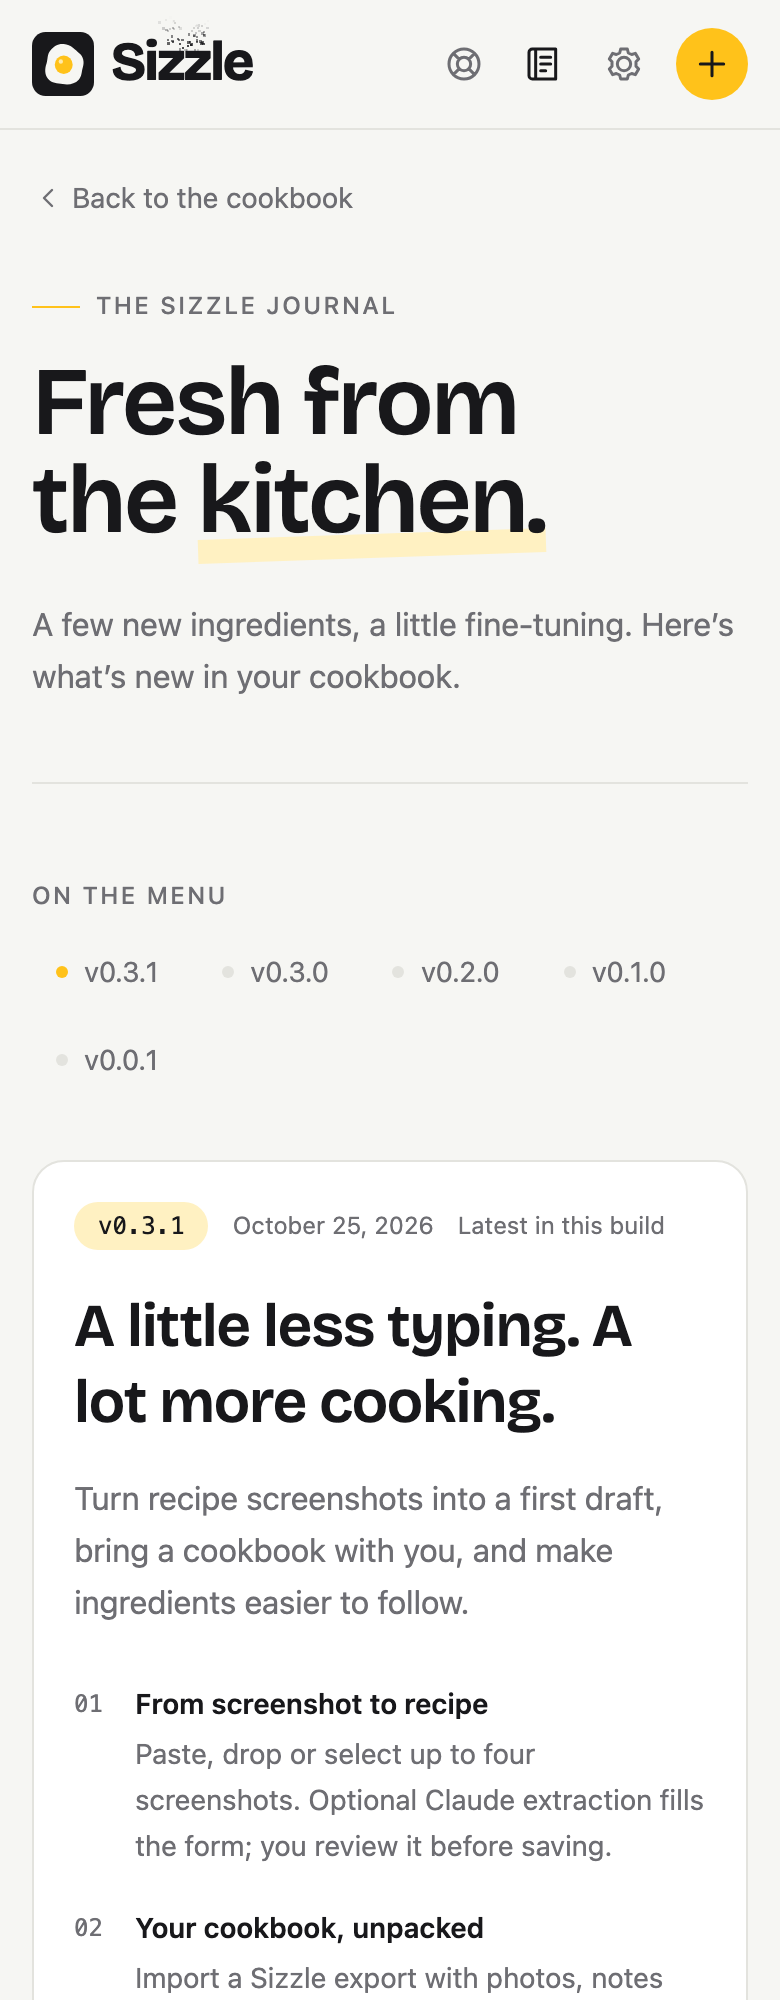
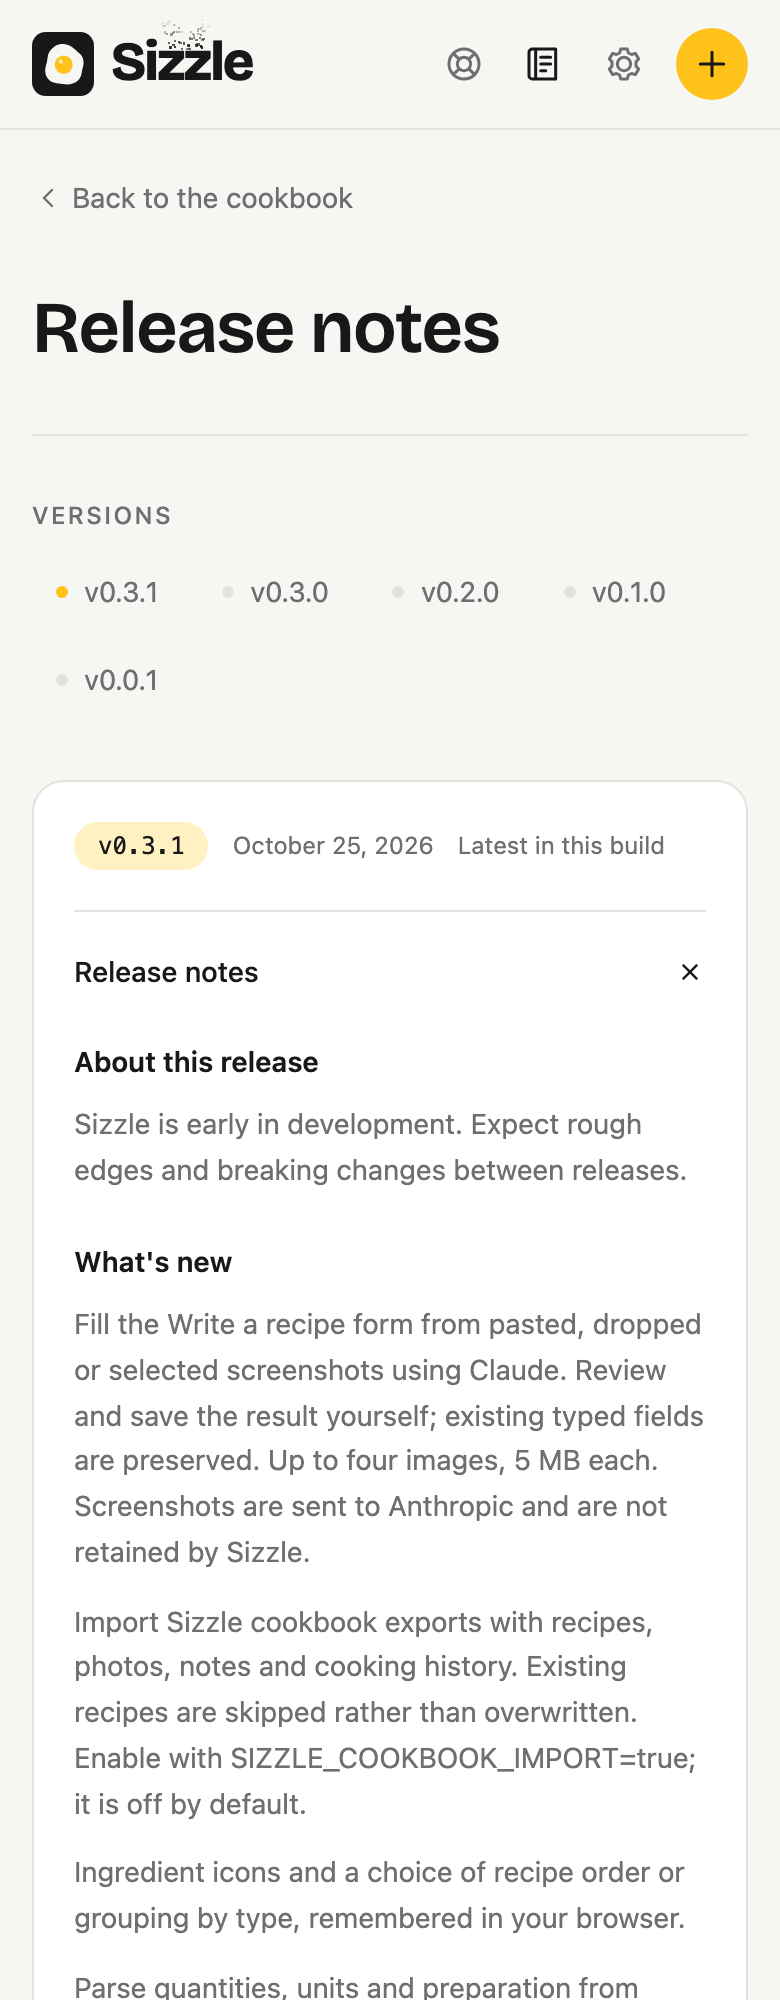
Remove editorial commentary from release notes

diff --git a/app/frontend/pages/releases/index.tsx b/app/frontend/pages/releases/index.tsx
@@ -13,28 +13,11 @@ export default function ReleasesIndex({ releases }: { releases: Release[] }) {
         <Icon name="back" className="size-4" /> Back to the cookbook
       </Link>
 
-      <header className="relative mt-8 mb-12 grid items-center gap-8 border-b border-hairline pb-10 sm:mt-12 sm:grid-cols-[1fr_13rem] sm:pb-12">
-        <div>
-          <p className="mb-4 flex items-center gap-2 text-xs font-medium tracking-widest text-graphite uppercase">
-            <span className="h-px w-6 bg-active" aria-hidden="true" /> The Sizzle journal
-          </p>
-          <h1 className="max-w-xl font-display text-5xl leading-[1.02] font-semibold tracking-tight sm:text-6xl">
-            Fresh from
-            <br />
-            the{' '}
-            <span className="relative inline-block">
-              kitchen.
-              <span className="absolute -bottom-1 left-0 -z-10 h-3 w-full -rotate-2 bg-mark" aria-hidden="true" />
-            </span>
-          </h1>
-          <p className="mt-6 max-w-md text-base leading-relaxed text-graphite">
-            A few new ingredients, a little fine-tuning.
-            <br className="hidden sm:block" /> Here’s what’s new in your cookbook.
-          </p>
-        </div>
+      <header className="relative mt-8 mb-8 grid items-center gap-8 border-b border-hairline pb-8 sm:grid-cols-[1fr_10rem]">
+        <h1 className="font-display text-4xl font-semibold sm:text-5xl">Release notes</h1>
         <div
           aria-hidden="true"
-          className="release-receipt relative hidden rotate-3 rounded-t-xl border border-hairline bg-paper px-6 pt-6 pb-8 text-center shadow-sm sm:block"
+          className="release-receipt relative hidden rotate-3 rounded-t-xl border border-hairline bg-paper px-4 pt-4 pb-5 text-center shadow-sm sm:block"
         >
           <svg
             viewBox="0 0 120 85"
@@ -50,10 +33,8 @@ export default function ReleasesIndex({ releases }: { releases: Release[] }) {
               <path d="M45 27c-9-8 8-10 0-19M61 24c-9-8 8-10 0-19M77 27c-9-8 8-10 0-19" />
             </g>
           </svg>
-          <p className="text-[0.65rem] tracking-[0.18em] text-graphite uppercase">Made with care</p>
-          <p className="mt-2 font-display text-2xl font-semibold">Sizzle</p>
           <div className="mt-4 border-t border-dashed border-hairline pt-3 font-mono text-xs text-graphite">
-            {app.version === 'dev' ? 'Development kitchen' : `Your version · ${app.version}`}
+            {app.version === 'dev' ? 'Development build' : `Your version · ${app.version}`}
           </div>
         </div>
       </header>
@@ -62,7 +43,7 @@ export default function ReleasesIndex({ releases }: { releases: Release[] }) {
         <div className="grid gap-8 md:grid-cols-[9rem_minmax(0,1fr)] md:gap-10">
           <aside>
             <nav aria-label="Release history" className="md:sticky md:top-24">
-              <h2 className="mb-3 text-xs font-medium tracking-widest text-graphite uppercase">On the menu</h2>
+              <h2 className="mb-3 text-xs font-medium tracking-widest text-graphite uppercase">Versions</h2>
               <ol className="flex flex-wrap gap-2 md:flex-col md:gap-0">
                 {releases.map((release, index) => (
                   <li key={release.version}>
@@ -80,11 +61,6 @@ export default function ReleasesIndex({ releases }: { releases: Release[] }) {
                   </li>
                 ))}
               </ol>
-              <p className="mt-6 hidden max-w-32 text-xs leading-relaxed text-graphite md:block">
-                Small improvements.
-                <br />
-                More time at the table.
-              </p>
             </nav>
           </aside>
 
@@ -96,9 +72,7 @@ export default function ReleasesIndex({ releases }: { releases: Release[] }) {
                 className="release-entry scroll-mt-24 rounded-2xl border border-hairline bg-paper p-5 sm:p-8"
               >
                 <div className="mb-5 flex flex-wrap items-center gap-x-3 gap-y-2 text-xs">
-                  <span className="rounded-full bg-mark px-3 py-1 font-mono font-medium text-ink">
-                    v{release.version}
-                  </span>
+                  <h2 className="rounded-full bg-mark px-3 py-1 font-mono font-medium text-ink">v{release.version}</h2>
                   <time dateTime={release.date} className="text-graphite">
                     {dateFormat.format(new Date(`${release.date}T12:00:00Z`))}
                   </time>
@@ -110,26 +84,9 @@ export default function ReleasesIndex({ releases }: { releases: Release[] }) {
                     index === 0 && <span className="text-graphite">Latest in this build</span>
                   )}
                 </div>
-                <h2 className="max-w-xl font-display text-3xl leading-tight font-semibold sm:text-4xl">
-                  {release.title}
-                </h2>
-                <p className="mt-4 max-w-xl leading-relaxed text-graphite">{release.summary}</p>
-                <ul className="mt-7 space-y-5">
-                  {release.highlights.map((highlight, i) => (
-                    <li key={highlight.title} className="flex gap-4">
-                      <span aria-hidden="true" className="pt-0.5 font-mono text-xs text-graphite">
-                        0{i + 1}
-                      </span>
-                      <div>
-                        <h3 className="text-sm font-semibold">{highlight.title}</h3>
-                        <p className="mt-1 text-sm leading-relaxed text-graphite">{highlight.body}</p>
-                      </div>
-                    </li>
-                  ))}
-                </ul>
-                <details className="group mt-7 border-t border-hairline pt-4">
+                <details open={index === 0} className="group border-t border-hairline pt-4">
                   <summary className="flex cursor-pointer list-none items-center justify-between gap-3 rounded-sm py-1 text-sm font-medium [&::-webkit-details-marker]:hidden">
-                    Full release notes <Icon name="plus" className="size-4 shrink-0 group-open:rotate-45" />
+                    Release notes <Icon name="plus" className="size-4 shrink-0 group-open:rotate-45" />
                   </summary>
                   <div className="mt-5 space-y-6 text-sm leading-relaxed break-words">
                     {release.sections.map((section) => (
@@ -154,7 +111,6 @@ export default function ReleasesIndex({ releases }: { releases: Release[] }) {
                 </details>
               </article>
             ))}
-            <p className="pb-4 text-center text-xs text-graphite">Made by Lee. Improved one release at a time.</p>
           </div>
         </div>
       ) : (

diff --git a/test/browser/releases.spec.ts b/test/browser/releases.spec.ts
@@ -13,10 +13,13 @@ for (const width of [390, 1280]) {
     await page.emulateMedia({ reducedMotion: 'reduce' })
     await page.goto('/')
     await page.getByRole('link', { name: "What's new — unread release notes", exact: true }).click()
-    await expect(page.getByRole('heading', { name: 'Fresh from the kitchen.' })).toBeVisible()
+    await expect(page.getByRole('heading', { name: 'Release notes', level: 1 })).toBeVisible()
     expect(await page.getByRole('article').count()).toBeGreaterThanOrEqual(5)
+    await expect(page.getByRole('heading', { name: 'Upgrade', exact: true }).first()).toBeVisible()
     const firstNotes = page.locator('summary').first()
     await firstNotes.focus()
+    await page.keyboard.press('Enter')
+    await expect(page.getByRole('heading', { name: 'Upgrade', exact: true }).first()).not.toBeVisible()
     await page.keyboard.press('Enter')
     await expect(page.getByRole('heading', { name: 'Upgrade', exact: true }).first()).toBeVisible()
     expect(await page.evaluate(() => document.documentElement.scrollWidth <= innerWidth)).toBe(true)
@@ -25,6 +28,6 @@ for (const width of [390, 1280]) {
     await expect(page.getByRole('link', { name: "What's new", exact: true })).toBeVisible()
     await expect(page.getByRole('link', { name: /unread release notes/ })).toHaveCount(0)
     await page.getByRole('link', { name: 'Sizzle release notes', exact: true }).click()
-    await expect(page.getByRole('heading', { name: 'Fresh from the kitchen.' })).toBeVisible()
+    await expect(page.getByRole('heading', { name: 'Release notes', level: 1 })).toBeVisible()
   })
 }

diff --git a/app/frontend/types/index.ts b/app/frontend/types/index.ts
@@ -32,10 +32,7 @@ export type SharedProps = {
 export type Release = {
   version: string
   date: string
-  title: string
-  summary: string
   url: string
-  highlights: { title: string; body: string }[]
   sections: { title: string; paragraphs: string[] }[]
 }
 

diff --git a/test/models/release_notes_test.rb b/test/models/release_notes_test.rb
@@ -10,7 +10,7 @@ class ReleaseNotesTest < ActiveSupport::TestCase
     releases.each do |release|
       assert_match(/\A\d+\.\d+\.\d+(?:-[a-zA-Z0-9.-]+)?\z/, release.fetch("version"))
       Date.iso8601(release.fetch("date"))
-      %w[title summary highlights sections].each { |key| assert release.fetch(key).present? }
+      assert release.fetch("sections").present?
       release.fetch("sections").each { |section| assert section.fetch("paragraphs").all?(&:present?) }
     end
   end

diff --git a/docs/releasing.md b/docs/releasing.md
@@ -68,8 +68,8 @@ available. Opening the journal remembers the newest visible version in this brow
 Versioned builds show entries at or below their own version; development shows all entries.
 
 Before choosing the final release SHA, prepend an entry with the proposed `version` (without
-`v`), intended release `date` (`YYYY-MM-DD`), a short `title` and `summary`, `highlights`
-(`title` and `body`), and `sections` (`title` and `paragraphs`). Follow the existing entries.
+`v`), intended release `date` (`YYYY-MM-DD`), and `sections` (`title` and `paragraphs`).
+Use the published release prose directly, without editorial titles, summaries or commentary.
 Use plain text; React escapes it. Keep upgrade steps, opt-in settings, privacy implications
 and limitations in the full notes. Use only changes actually included in the candidate.
 GitHub notes may include extra PR links, but their claims and upgrade guidance must agree.
